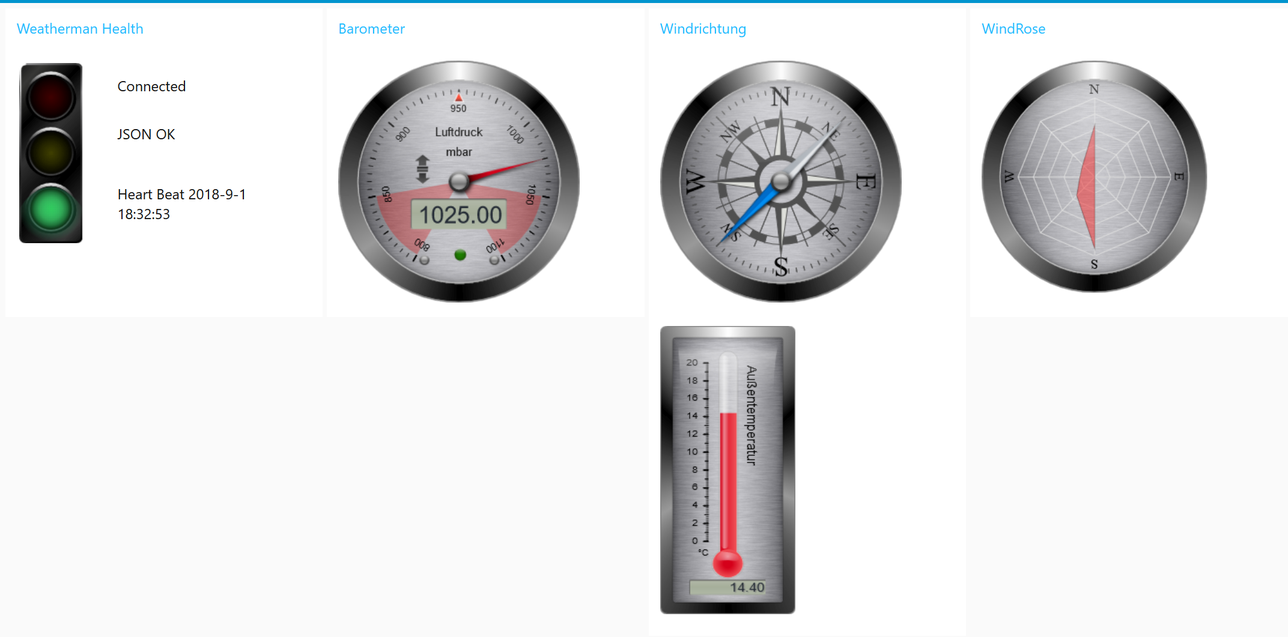
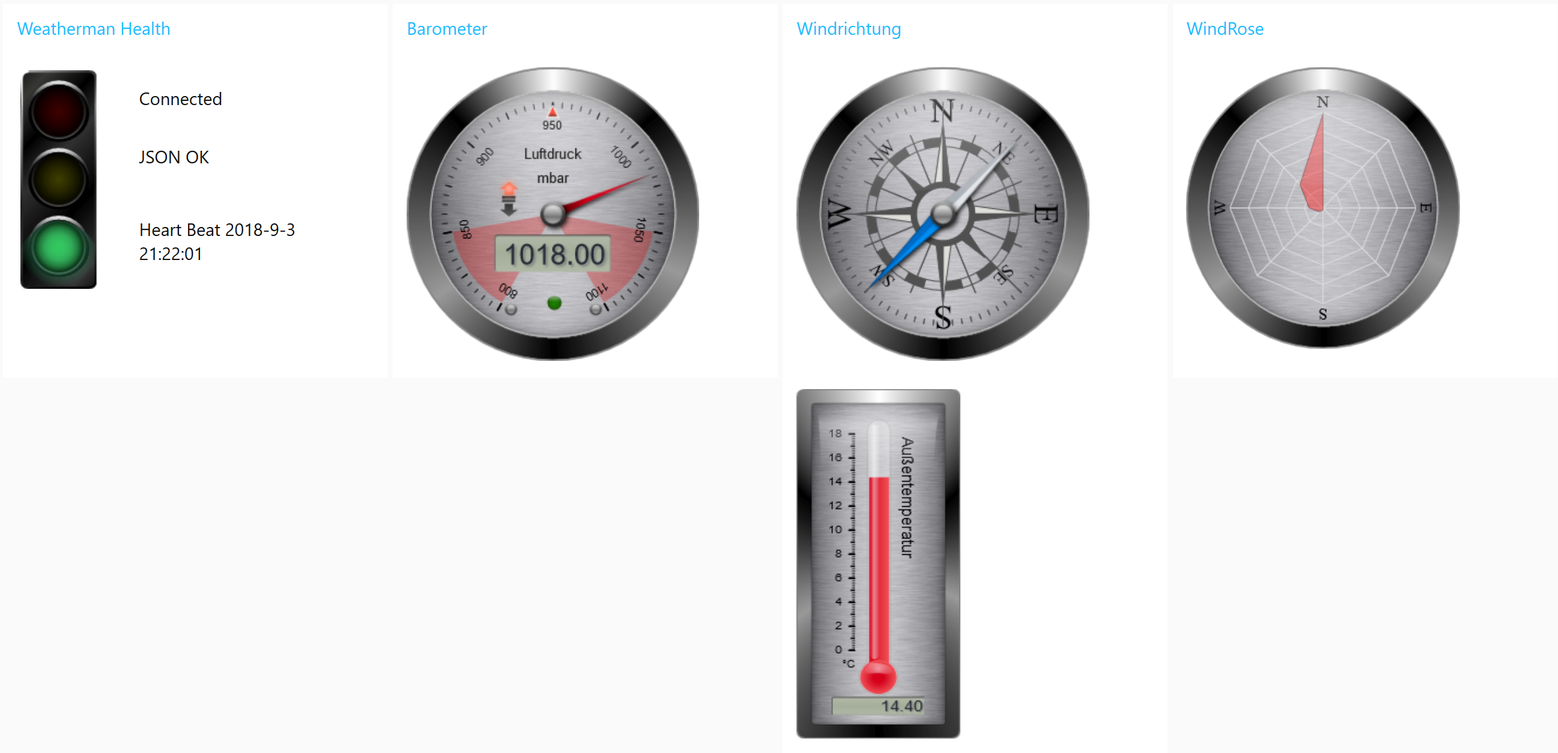
update

diff --git a/flow.md b/flow.md
@@ -10,7 +10,7 @@
         "id": "47595dc.ba94324",
         "type": "tcp in",
         "z": "b016607a.570c28",
-        "name": "",
+        "name": "Listen Weatherman",
         "server": "server",
         "host": "",
         "port": "8186",
@@ -19,7 +19,7 @@
         "newline": "",
         "topic": "",
         "base64": false,
-        "x": 100,
+        "x": 110,
         "y": 800,
         "wires": [
             [
@@ -208,7 +208,7 @@
             "6ff5d495.9ca94c",
             "b1c34c3a.cf0f18"
         ],
-        "x": 1230,
+        "x": 1256,
         "y": 1640,
         "wires": [
             [
@@ -1438,13 +1438,13 @@
         "id": "30adad7a.1c38aa",
         "type": "rbe",
         "z": "b016607a.570c28",
-        "name": "",
+        "name": "WatchDog",
         "func": "rbe",
         "gap": "",
         "start": "",
         "inout": "out",
         "property": "payload",
-        "x": 730,
+        "x": 754,
         "y": 1580,
         "wires": [
             [
@@ -1467,7 +1467,7 @@
         "reset": "1",
         "bytopic": "all",
         "name": "TimeOut",
-        "x": 880,
+        "x": 906,
         "y": 1540,
         "wires": [
             [
@@ -1588,11 +1588,11 @@
         "order": 0,
         "width": "5",
         "height": "5",
-        "format": "<script type=\"text/javascript\" src=\"/addons/red/static/scripts/steelseries-min.js\"></script>\n<script type=\"text/javascript\" src=\"/addons/red/static/scripts/tween-min.js\"></script>\n\n<script>\nvar TrafLight;\nTrafLight = new steelseries.TrafficLight('canvasTrafLight', {\n              width: 100,\n              height: 200\n            });\n\n(function(scope){\n  scope.$watch('msg', function(msg) {\n    if (msg.payload === 1) {\n      TrafLight.setGreenOn(true);\n    } else if (msg.payload === 0) {\n      TrafLight.setGreenOn(false);\n    } else if (msg.payload === 'con_ok') {\n      TrafLight.setRedOn(false);\n      scope.conStatus = 'Connected';\n    } else if (msg.payload === 'con_timeout') {\n      TrafLight.setRedOn(true);\n      scope.conStatus = 'Connection Timeout';\n    } else if (msg.error !== undefined) {\n      TrafLight.setYellowOn(true);\n      scope.jsonStatus = 'JSON Error'\n    } \n  });\n}(scope));\nscope.conStatus = 'Connected';\nscope.jsonStatus = 'JSON OK';\n\n</script>\n\n\n<table width=\"100%\" border=\"0\">\n  <tbody>\n    <tr>\n      <td width=\"105\" rowspan=\"3\"><canvas id=\"canvasTrafLight\" width=\"100\" height=\"200\"></canvas></td>\n      <td>{{conStatus}}</td>\n    </tr>\n    <tr>\n      <td>{{jsonStatus}}</td>\n    </tr>\n    <tr>\n      <td>Heart Beat {{msg.timestamp}}</td>\n    </tr>\n  </tbody>\n</table>",
+        "format": "<script>\nvar TrafLight;\nTrafLight = new steelseries.TrafficLight('canvasTrafLight', {\n  width: 100,\n  height: 200\n});\n\n(function(scope){\n  scope.$watch('msg', function(msg) {\n    if (msg.payload !== undefined) {\n      if (msg.payload === 1) {\n        TrafLight.setGreenOn(true);\n      } else if (msg.payload === 0) {\n        TrafLight.setGreenOn(false);\n      } else if (msg.payload === 'con_ok') {\n        TrafLight.setRedOn(false);\n        scope.conStatus = 'Connected';\n      } else if (msg.payload === 'con_timeout') {\n        TrafLight.setRedOn(true);\n        scope.conStatus = 'Connection Timeout';\n      } else if (msg.error !== undefined) {\n        TrafLight.setYellowOn(true);\n        scope.jsonStatus = 'JSON Error';\n      }\n    }\n  });\n}(scope));\nscope.conStatus = 'Connected';\nscope.jsonStatus = 'JSON OK';\n</script>\n\n\n<table width=\"100%\" border=\"0\">\n  <tbody>\n    <tr>\n      <td width=\"105\" rowspan=\"3\"><canvas id=\"canvasTrafLight\" width=\"100\" height=\"200\"></canvas></td>\n      <td>{{conStatus}}</td>\n    </tr>\n    <tr>\n      <td>{{jsonStatus}}</td>\n    </tr>\n    <tr>\n      <td>Heart Beat {{msg.timestamp}}</td>\n    </tr>\n  </tbody>\n</table>",
         "storeOutMessages": true,
         "fwdInMessages": true,
         "templateScope": "local",
-        "x": 1520,
+        "x": 1546,
         "y": 1600,
         "wires": [
             []
@@ -1612,7 +1612,7 @@
         "reset": "",
         "bytopic": "all",
         "name": "Heart Beat",
-        "x": 1250,
+        "x": 1276,
         "y": 1600,
         "wires": [
             [
@@ -1639,7 +1639,7 @@
         "from": "",
         "to": "",
         "reg": false,
-        "x": 1240,
+        "x": 1266,
         "y": 1520,
         "wires": [
             [
@@ -1665,7 +1665,7 @@
         "checkall": "true",
         "repair": false,
         "outputs": 2,
-        "x": 1050,
+        "x": 1076,
         "y": 1540,
         "wires": [
             [
@@ -1695,7 +1695,7 @@
         "from": "",
         "to": "",
         "reg": false,
-        "x": 1240,
+        "x": 1266,
         "y": 1560,
         "wires": [
             [
@@ -1750,7 +1750,7 @@
         "order": 0,
         "width": "3",
         "height": "6",
-        "format": "<script type=\"text/javascript\" src=\"/addons/red/static/scripts/steelseries-min.js\"></script>\n<script type=\"text/javascript\" src=\"/addons/red/static/scripts/tween-min.js\"></script>\n\n<script>\nvar linearThermo;\nlinearThermo = new steelseries.Linear('canvasLinearThermo', {\n                 width: 140,\n                 height: 320,\n                 gaugeType: steelseries.GaugeType.TYPE2,\n                 titleString: \"Außentemperatur\",\n                 unitString: \"°C\",\n                 ledVisible: false,\n                 lcdVisible: true,\n                 thresholdRising: false,\n                 thresholdVisible: false,\n                 niceScale: true,\n                 minValue: -25,\n                 maxValue: 40\n               });\n                    \nlinearThermo.setFrameDesign(steelseries.FrameDesign.BLACK_METAL);\nlinearThermo.setBackgroundColor(steelseries.BackgroundColor.BRUSHED_METAL);\nlinearThermo.setValueAnimated(0);\nlinearThermo.setMaxValue(40);\n\n(function(scope){ \n  scope.$watch('msg', function(msg) {\n    if (msg.payload !== undefined && msg.topic === '/weatherman/status/w_temperature') {\n      linearThermo.setValueAnimated(msg.payload);\n      if (msg.payload > 0) {\n        linearThermo.setMaxValue(msg.payload + 2);\n        linearThermo.setMinValue(0);\n      } else if (msg.payload < 0) {\n        linearThermo.setMaxValue(0);\n        linearThermo.setMinValue(msg.payload - 2);\n      }\n    }\n  });\n})(scope);\n</script>\n\n<canvas id=\"canvasLinearThermo\" width=\"140\" height=\"320\"></canvas>\n",
+        "format": "<script>\nvar linearThermo;\nlinearThermo = new steelseries.Linear('canvasLinearThermo', {\n                 width: 140,\n                 height: 320,\n                 gaugeType: steelseries.GaugeType.TYPE2,\n                 titleString: \"Außentemperatur\",\n                 unitString: \"°C\",\n                 ledVisible: false,\n                 lcdVisible: true,\n                 thresholdRising: false,\n                 thresholdVisible: false,\n                 niceScale: true,\n                 minValue: -25,\n                 maxValue: 40\n               });\n                    \nlinearThermo.setFrameDesign(steelseries.FrameDesign.BLACK_METAL);\nlinearThermo.setBackgroundColor(steelseries.BackgroundColor.BRUSHED_METAL);\nlinearThermo.setValueAnimated(0);\nlinearThermo.setMaxValue(40);\n\n(function(scope){ \n  scope.$watch('msg', function(msg) {\n    if (msg.payload !== undefined && msg.topic === '/weatherman/status/w_temperature') {\n      linearThermo.setValueAnimated(msg.payload);\n      if (msg.payload > 0) {\n        linearThermo.setMaxValue(msg.payload + 2);\n        linearThermo.setMinValue(0);\n      } else if (msg.payload < 0) {\n        linearThermo.setMaxValue(0);\n        linearThermo.setMinValue(msg.payload - 2);\n      }\n    }\n  });\n})(scope);\n</script>\n\n<canvas id=\"canvasLinearThermo\" width=\"140\" height=\"320\"></canvas>\n",
         "storeOutMessages": true,
         "fwdInMessages": true,
         "templateScope": "local",
@@ -1855,7 +1855,7 @@
         "z": "b016607a.570c28",
         "name": "Einfaches Monitoring und Fehlerbehandlung",
         "info": "",
-        "x": 1080,
+        "x": 1106,
         "y": 1460,
         "wires": []
     },
@@ -1900,7 +1900,7 @@
         "order": 0,
         "width": "5",
         "height": "5",
-        "format": "<script>\n\n/*\n * Version 6 of the Windrose/Radar gauge\n * Originally created by Mark Crossley\n * Source: https://www.weather-watch.com/smf/index.php/topic,55071.0.html\n *\n */\n\n\n// Create some global variables to hold references to the buffers\nvar g_bufferRadar, g_bufferRadarFrame, g_bufferRadarBackground,\n    g_bufferRadarForeground, g_ctxRadarGauge;\nvar g_radarPlotSize;\n\n// Global variables that already exist in gauges-ss, if merging into gauge-ss, you\n// DO NOT need to add these\nvar g_size = 281;\nvar data = {};\nvar g_frameDesign = steelseries.FrameDesign.BLACK_METAL;\nvar g_background = steelseries.BackgroundColor.BRUSHED_METAL;\nvar g_foreground = steelseries.ForegroundType.TYPE1;\nvar LANG = {};\nLANG.compass = ['N', 'NE', 'E', 'SE', 'S', 'SW', 'W', 'NW'];\n\n// Optional - background image - Already in gauges-ss\n//var g_imgPathURL = 'images/';\n//var g_imgSmall = document.createElement(\"img\");                     //  background image\n//g_imgSmall.setAttribute(\"src\", g_imgPathURL + \"logoLarge.png\");\n\nfunction init() {\n\n  // Calcuate the size of the gauge background and so the size of radar plot required\n  g_radarPlotSize = g_size * 0.68;\n\n  // Create a hidden div to host the Radar plot\n  var div = document.createElement('div');\n  div.style.display = 'none';\n  document.body.appendChild(div);\n\n  // radar plot canvas buffer\n  g_bufferRadar = document.createElement('canvas');\n  g_bufferRadar.width = g_radarPlotSize;\n  g_bufferRadar.height = g_radarPlotSize;\n  g_bufferRadar.id = 'radarPlot';\n  div.appendChild(g_bufferRadar);\n\n  // Create a steelseries gauge frame\n  g_bufferRadarFrame = document.createElement('canvas');\n  g_bufferRadarFrame.width = g_size;\n  g_bufferRadarFrame.height = g_size;\n  var ctxFrame = g_bufferRadarFrame.getContext('2d');\n  steelseries.drawFrame(ctxFrame, g_frameDesign, g_size/2, g_size/2, g_size, g_size);\n\n  // Create a steelseries gauge background\n  g_bufferRadarBackground = document.createElement('canvas');\n  g_bufferRadarBackground.width = g_size;\n  g_bufferRadarBackground.height = g_size;\n  var ctxBackground = g_bufferRadarBackground.getContext('2d');\n  steelseries.drawBackground(ctxBackground, g_background, g_size/2, g_size/2, g_size, g_size);\n  // Optional - add a background image\n  //var drawSize = g_size * 0.831775;\n  //var x = (g_size - drawSize) / 2;\n  //ctxBackground.drawImage(g_imgSmall, x, x, drawSize, drawSize);\n\n  // Add the compass points\n  drawCompassPoints(ctxBackground, g_size);\n\n  // Create a steelseries gauge forground\n  g_bufferRadarForeground = document.createElement('canvas');\n  g_bufferRadarForeground.width = g_size;\n  g_bufferRadarForeground.height = g_size;\n  var ctxForegound = g_bufferRadarForeground.getContext('2d');\n  steelseries.drawForeground(ctxForegound, g_foreground, g_size, g_size, false);\n\n  // Get the context of the gauge canavs on the HTML page\n  g_ctxRadarGauge = document.getElementById('canvasGauge').getContext('2d');\n}\n\n\n// Just draw an empty gauge as a placeholder when the page loads\nfunction drawWindRose() {\n  // Paint the gauge frame\n  g_ctxRadarGauge.drawImage(g_bufferRadarFrame, 0, 0);\n\n  // Paint the gauge background\n  g_ctxRadarGauge.drawImage(g_bufferRadarBackground, 0, 0);\n\n  // Paint the gauge foreground\n  g_ctxRadarGauge.drawImage(g_bufferRadarForeground, 0, 0);\n}\n\n// Redraw the gauge with data\nfunction doWindRose() {\n  console.log(data.WindRoseData);\n  // Clear the gauge\n  g_ctxRadarGauge.clearRect(0, 0, g_size, g_size);\n\n  // Clear the existing radar plot\n  g_bufferRadar.width = g_bufferRadar.height = g_radarPlotSize;\n\n  // Create a new radar plot\n  var radar = new RGraph.Radar('radarPlot', data.WindRoseData);\n  radar.Set('chart.strokestyle', 'black');\n  radar.Set('chart.colors.alpha', 0.4);\n  radar.Set('chart.colors', ['red']);\n\n  radar.Set('chart.title', 'Wind  Rose');\n  radar.Set('chart.title.size', Math.ceil(0.045 * g_radarPlotSize));\n  radar.Set('chart.title.bold', false);\n  radar.Set('chart.gutter.top', 0.2 * g_radarPlotSize);\n  radar.Set('chart.gutter.bottom', 0.2 * g_radarPlotSize);\n\n  radar.Set('chart.tooltips.effect', 'snap');\n  radar.Set('chart.labels.axes', '');\n  radar.Set('chart.background.circles', true);\n  radar.Set('chart.radius', g_radarPlotSize/2);\n  radar.Draw();\n\n  // Paint the gauge frame\n  g_ctxRadarGauge.drawImage(g_bufferRadarFrame, 0, 0);\n\n  // Paint the gauge background\n  g_ctxRadarGauge.drawImage(g_bufferRadarBackground, 0, 0);\n\n  // Paint the radar plot\n  var offset = (g_size - g_radarPlotSize) / 2;\n  g_ctxRadarGauge.drawImage(g_bufferRadar, offset, offset);\n\n  // Paint the gauge foreground\n  g_ctxRadarGauge.drawImage(g_bufferRadarForeground, 0, 0);\n\n}\n\n\n// Helper function to put the compass points on the background\nfunction drawCompassPoints(ctx, size) {\n  ctx.save();\n  // set the font\n  ctx.font = (0.06 * size) + 'px serif';\n  ctx.fillStyle = '#000000';\n  ctx.textAlign = 'center';\n  ctx.textBaseline = 'middle';\n\n  // Draw the compass points\n  for (var i=0; i<4; i++) {\n    ctx.translate(size/2, size*0.125);\n    ctx.fillText(LANG.compass[i*2], 0, 0, size);\n    ctx.translate(-size/2, -size*0.125);\n    // Move to center\n    ctx.translate(size/2, size/2);\n    ctx.rotate(Math.PI/2);\n    ctx.translate(-size/2, -size/2);\n  }\n  ctx.restore();\n}\n// Initial setup\ninit();\ndrawWindRose();\n\n(function(scope) {\n  scope.$watch('msg', function(msg) {\n    if (msg.payload !== undefined) {\n      drawWindRose();\n      data.WindRoseData = msg.payload;\n      doWindRose();\n    }\n  });\n}(scope));\n\n</script>\n\n<canvas id=\"canvasGauge\" width=\"301\" height=\"301\">No canvas in your browser...sorry...</canvas>\n\n\n\n\n\n",
+        "format": "<script>\n\n/*\n * Version 6 of the Windrose/Radar gauge\n * Originally created by Mark Crossley\n * Source: https://www.weather-watch.com/smf/index.php/topic,55071.0.html\n *\n */\n\n\n// Create some global variables to hold references to the buffers\nvar g_bufferRadar, g_bufferRadarFrame, g_bufferRadarBackground,\n    g_bufferRadarForeground, g_ctxRadarGauge;\nvar g_radarPlotSize;\n\n// Global variables that already exist in gauges-ss, if merging into gauge-ss, you\n// DO NOT need to add these\nvar g_size = 281;\nvar data = {};\nvar g_frameDesign = steelseries.FrameDesign.BLACK_METAL;\nvar g_background = steelseries.BackgroundColor.BRUSHED_METAL;\nvar g_foreground = steelseries.ForegroundType.TYPE1;\nvar LANG = {};\nLANG.compass = ['N', 'NE', 'E', 'SE', 'S', 'SW', 'W', 'NW'];\n\n// Optional - background image - Already in gauges-ss\n//var g_imgPathURL = 'images/';\n//var g_imgSmall = document.createElement(\"img\");                     //  background image\n//g_imgSmall.setAttribute(\"src\", g_imgPathURL + \"logoLarge.png\");\n\nfunction init() {\n\n  // Calcuate the size of the gauge background and so the size of radar plot required\n  g_radarPlotSize = g_size * 0.68;\n\n  // Create a hidden div to host the Radar plot\n  var div = document.createElement('div');\n  div.style.display = 'none';\n  document.body.appendChild(div);\n\n  // radar plot canvas buffer\n  g_bufferRadar = document.createElement('canvas');\n  g_bufferRadar.width = g_radarPlotSize;\n  g_bufferRadar.height = g_radarPlotSize;\n  g_bufferRadar.id = 'radarPlot';\n  div.appendChild(g_bufferRadar);\n\n  // Create a steelseries gauge frame\n  g_bufferRadarFrame = document.createElement('canvas');\n  g_bufferRadarFrame.width = g_size;\n  g_bufferRadarFrame.height = g_size;\n  var ctxFrame = g_bufferRadarFrame.getContext('2d');\n  steelseries.drawFrame(ctxFrame, g_frameDesign, g_size/2, g_size/2, g_size, g_size);\n\n  // Create a steelseries gauge background\n  g_bufferRadarBackground = document.createElement('canvas');\n  g_bufferRadarBackground.width = g_size;\n  g_bufferRadarBackground.height = g_size;\n  var ctxBackground = g_bufferRadarBackground.getContext('2d');\n  steelseries.drawBackground(ctxBackground, g_background, g_size/2, g_size/2, g_size, g_size);\n  // Optional - add a background image\n  //var drawSize = g_size * 0.831775;\n  //var x = (g_size - drawSize) / 2;\n  //ctxBackground.drawImage(g_imgSmall, x, x, drawSize, drawSize);\n\n  // Add the compass points\n  drawCompassPoints(ctxBackground, g_size);\n\n  // Create a steelseries gauge forground\n  g_bufferRadarForeground = document.createElement('canvas');\n  g_bufferRadarForeground.width = g_size;\n  g_bufferRadarForeground.height = g_size;\n  var ctxForegound = g_bufferRadarForeground.getContext('2d');\n  steelseries.drawForeground(ctxForegound, g_foreground, g_size, g_size, false);\n\n  // Get the context of the gauge canavs on the HTML page\n  g_ctxRadarGauge = document.getElementById('canvasGauge').getContext('2d');\n}\n\n\n// Just draw an empty gauge as a placeholder when the page loads\nfunction drawWindRose() {\n  // Paint the gauge frame\n  g_ctxRadarGauge.drawImage(g_bufferRadarFrame, 0, 0);\n\n  // Paint the gauge background\n  g_ctxRadarGauge.drawImage(g_bufferRadarBackground, 0, 0);\n\n  // Paint the gauge foreground\n  g_ctxRadarGauge.drawImage(g_bufferRadarForeground, 0, 0);\n}\n\n// Redraw the gauge with data\nfunction doWindRose() {\n  //console.log(data.WindRoseData);\n  // Clear the gauge\n  g_ctxRadarGauge.clearRect(0, 0, g_size, g_size);\n\n  // Clear the existing radar plot\n  g_bufferRadar.width = g_bufferRadar.height = g_radarPlotSize;\n\n  // Create a new radar plot\n  var radar = new RGraph.Radar('radarPlot', data.WindRoseData);\n  radar.Set('chart.strokestyle', 'black');\n  radar.Set('chart.colors.alpha', 0.4);\n  radar.Set('chart.colors', ['red']);\n\n  radar.Set('chart.title', 'Wind  Rose');\n  radar.Set('chart.title.size', Math.ceil(0.045 * g_radarPlotSize));\n  radar.Set('chart.title.bold', false);\n  radar.Set('chart.gutter.top', 0.2 * g_radarPlotSize);\n  radar.Set('chart.gutter.bottom', 0.2 * g_radarPlotSize);\n\n  radar.Set('chart.tooltips.effect', 'snap');\n  radar.Set('chart.labels.axes', '');\n  radar.Set('chart.background.circles', true);\n  radar.Set('chart.radius', g_radarPlotSize/2);\n  radar.Draw();\n\n  // Paint the gauge frame\n  g_ctxRadarGauge.drawImage(g_bufferRadarFrame, 0, 0);\n\n  // Paint the gauge background\n  g_ctxRadarGauge.drawImage(g_bufferRadarBackground, 0, 0);\n\n  // Paint the radar plot\n  var offset = (g_size - g_radarPlotSize) / 2;\n  g_ctxRadarGauge.drawImage(g_bufferRadar, offset, offset);\n\n  // Paint the gauge foreground\n  g_ctxRadarGauge.drawImage(g_bufferRadarForeground, 0, 0);\n\n}\n\n\n// Helper function to put the compass points on the background\nfunction drawCompassPoints(ctx, size) {\n  ctx.save();\n  // set the font\n  ctx.font = (0.06 * size) + 'px serif';\n  ctx.fillStyle = '#000000';\n  ctx.textAlign = 'center';\n  ctx.textBaseline = 'middle';\n\n  // Draw the compass points\n  for (var i=0; i<4; i++) {\n    ctx.translate(size/2, size*0.125);\n    ctx.fillText(LANG.compass[i*2], 0, 0, size);\n    ctx.translate(-size/2, -size*0.125);\n    // Move to center\n    ctx.translate(size/2, size/2);\n    ctx.rotate(Math.PI/2);\n    ctx.translate(-size/2, -size/2);\n  }\n  ctx.restore();\n}\n\n(function(scope) {\n  init();\n  drawWindRose();\n  scope.$watch('msg', function(msg) {\n    if (msg.payload !== undefined) {\n    //  drawWindRose();\n      data.WindRoseData = msg.payload;\n      doWindRose();\n    }\n  });\n}(scope));\n\n</script>\n\n<canvas id=\"canvasGauge\" width=\"301\" height=\"301\">No canvas in your browser...sorry...</canvas>\n\n\n\n\n\n",
         "storeOutMessages": true,
         "fwdInMessages": true,
         "templateScope": "local",

diff --git a/README_DE.md b/README_DE.md
@@ -13,11 +13,16 @@ Dieser Flow erlaubt es die JSON Daten des [Weatherman's](https://www.stall.biz/p
    - [Demo Radar](http://www.wilmslowastro.com/steelseries/radar/radar.html)
    - [Demo Bulb](http://www.wilmslowastro.com/steelseries/demoLightBulb.html)
 
+Die hier dargestellte Visualisierung soll nur als Anregung dienen und die obigen Beispiele zeigen, welche Möglichkeiten die Steelseries Gauges noch bieten.
+
+Sollte hier jemand schicke Ergänzungen vornehmen, würde ich mich über ein Pull-Request oder ein Teilen des Flows freuen.
+
 ## Flow
 
 <img src="https://raw.githubusercontent.com/Sineos/node-red-contrib-weatherman/master/src_readme/flow.png" width="400"/>
 
 ### Import Flow
+
 Den Inhalt von [raw flow.md](https://raw.githubusercontent.com/Sineos/node-red-contrib-weatherman/master/flow.md) kopieren und in Node-Red importieren.
 
 ## Dashboard
@@ -25,8 +30,10 @@ Den Inhalt von [raw flow.md](https://raw.githubusercontent.com/Sineos/node-red-c
 <img src="https://raw.githubusercontent.com/Sineos/node-red-contrib-weatherman/master/src_readme/dash.png" width="400"/>
 
 ## Vorbereitungen
+
 ### Weatherman
-Der Weatherman sendet seine Daten standardmäßig zum lighthttp proxy der CCU auf Port 8181. Da hier die Integration über RedMatic erfolgen soll, muss der Port in Waetherman geändert werden, da der Port nicht doppelt von der CCU und RedMatic verwendet werden kann.
+
+Der Weatherman sendet seine Daten standardmäßig zum lighthttp proxy der CCU auf Port 8181. Da hier die Integration über RedMatic erfolgen soll, muss der Port in Weatherman geändert werden, da der Port nicht doppelt von der CCU und RedMatic verwendet werden kann.
 
 Die Änderung des Ports erfolgt über: `http://<ip weatherman>/param:12:<port>`
 
@@ -47,7 +54,7 @@ Um die entsprechenden Einstellungen vornehmen zu können muss der SSH Zugang akt
 Mit dem SSH Zugang wird ein neues Verzeichnis für die entsprechenden Skripte angelegt. Der Flow hier verwendet:
 
     /usr/local/sdcard/www/addons/red/static/scripts
-In dieses Verzeichnis müssen folgende Dateien hochgeladen werden:
+Dieses Verzeichnis muss angelegt werden und folgende Dateien müssen hochgeladen werden:
 
 - [steelseries-min.js](https://github.com/HanSolo/SteelSeries-Canvas/blob/master/steelseries-min.js)
 - [tween-min.js](https://github.com/HanSolo/SteelSeries-Canvas/blob/master/tween-min.js)
@@ -82,6 +89,20 @@ Im Anschluss zu diesen Einstellungen muss RedMatic neu gestartet werden.
 ## Konfiguration der einzelnen Nodes
 
 In der weiteren Erklärung wird auf einzelne Nodes näher eingegangen.
+
+### TCP in Node: Listen Weatherman
+
+https://raw.githubusercontent.com/Sineos/node-red-contrib-weatherman/master/src_readme/tcp_in.png" width="400"/>
+
+#### Beschreibung
+
+Verbindungspunkt zum Weatherman.
+
+#### Funktion
+
+ - Öffnet einen Server Port (hier 8186) zu dem sich der Weatherman periodisch verbindet
+ - Das eingehende JSON Paket wird erstmal als einfache Zeichenkette weitergegeben 
+
 ### Function Node: Parse JSON
 
 https://raw.githubusercontent.com/Sineos/node-red-contrib-weatherman/master/src_readme/function_parse1.png" width="400"/>
@@ -98,10 +119,10 @@ Die 3 Möglichkeiten sind:
 
 #### Funktion
 
- - Mit der Variable `BasePath` wird der erste Teil der späteren `msg.topic` gesezt. Dieser BasePath wird jeweils um den Namen des entsprechenden Datenpunkts vom Weatherman ergänzt
+ - Mit der Variable `BasePath` wird der erste Teil der späteren `msg.topic` gesetzt. Dieser BasePath wird jeweils um den Namen des entsprechenden Datenpunkts vom Weatherman ergänzt
  - Über `msg.timestamp` wird den Daten jeweils noch die aktuelle Zeit mitgegeben  
  - Mit `node.error` wird ein Fehler-Event erzeugt, falls es beim Parsen der Daten Probleme gibt, z.B. kein EOT gefunden oder bei einem fehlerhaften JSON Datensatz 
- - Bei Möglichkeit #2 und #3 wird der jeweilgen Nachricht noch über `msg.unit` die entsprechende Messgröße mitgegeben
+ - Bei Möglichkeit #2 und #3 wird der jeweiligen Nachricht noch über `msg.unit` die entsprechende Messgröße mitgegeben
 
 ### Change Node: weatherman_ip
 
@@ -113,11 +134,72 @@ Die gesamte Reihe an Change Nodes zerlegt das geparste JSON Paket in seine Besta
 
 Mit `payload.vars.0` wird der erste Werteblock im JSON angesprochen, mit `payload.vars.1` der zweite usw.
 
-Sollte sich mit späteren Weatherman Firmware Versionen die Reihenfloge der Daten ändern, ist hier entsprechend anzupassen, da sonst die Temperatur ggf. beim Wind landet etc.
+Sollte sich mit späteren Weatherman Firmware Versionen die Reihenfolge der Daten ändern, ist hier entsprechend anzupassen, da sonst die Temperatur ggf. beim Wind landet etc.
 
 #### Funktion
 
- - Mit dem JSONata Ausdruck `$$.topic & $$.payload.vars[0].homematic_name` wird das vorhandene `msg.topic` (siehe BasePath aus Parse JSON) genommen und um den Wert des `homematic_name` Schlüssels ergänzt.
+ - Mit dem JSONata Ausdruck `$$.topic & $$.payload.vars[0].homematic_name` wird das vorhandene `msg.topic` (siehe `BasePath` aus Parse JSON) genommen und um den Wert des `homematic_name` Schlüssels ergänzt.
  - Der Wert aus `payload.vars.0.unit` wird `msg.unit` zugewiesen
  - Der Wert aus `payload.vars.0.value` wird `msg.payload` zugewiesen
 
+### Template Node: Load required scripts
+
+https://raw.githubusercontent.com/Sineos/node-red-contrib-weatherman/master/src_readme/template_scripts.png " width="400"/>
+
+#### Beschreibung
+
+Stellt die, zur Visualisierung benötigten, Skript Bibliotheken global zur Verfügung.
+
+#### Funktion
+
+ - Lädt die Skripte welche unter [httpStatic Verzeichnis und Skript Dateien](#httpStatic-Verzeichnis-und-Skript-Dateien) auf die CCU kopiert wurden
+
+### Template Node: Windrichtung
+
+https://raw.githubusercontent.com/Sineos/node-red-contrib-weatherman/master/src_readme/template_winddir.png " width="400"/>
+
+#### Beschreibung
+
+An Hand dieses Beispiels wird kurz auf die Visualisierung eingegangen.
+
+#### Funktion
+
+    (function(scope){ 
+      scope.$watch('msg', function(msg) {
+        if (msg.payload !== undefined && msg.topic === '/weatherman/status/w_wind_dir') {
+          radialWind.setValueAnimated(msg.payload);
+        }
+      });
+    })(scope);
+
+ - Kern der Visualisierung ist jeweils diese function(scope): Diese wird benötigt um Nachrichten innerhalb eines Templates auch in einem Skript nutzen zu können, denn ansonsten stehen diese Informationen nur den (Angular) html Elementen zur Verfügung
+ - Im Rest der Visualisierungs-Templates wird dann jeweils über die SteelSeries Funktionalitäten eine Anzeige generiert und diese dann mit den entsprechenden Daten gefüttert
+
+### Function Node: WindData
+
+https://raw.githubusercontent.com/Sineos/node-red-contrib-weatherman/master/src_readme/function_winddata.png " width="400"/>
+
+#### Beschreibung
+
+Diese Funktion summiert, über angegebene Zeitintervalle, die aufgetretenen Windgeschwindigkeiten in den jeweiligen Windrichtungen, um damit im Folgenden ein Diagramm zu erzeugen aus dem sich die hauptsächliche Windrichtung(en) in diesem Intervall ablesen lassen.
+
+#### Funktion
+
+ - Mit den Konstanten `limitLongTerm`, `limitMediumTerm` und `limitShortTerm` können die Zeitintervalle (in Stunden) bestimmt werden in der der Wind beobachtet werden soll
+ - Für diese Zeitintervalle sammelt das Skript die aufgetretenen Windgeschwindigkeiten in den 8 Himmelsrichtungen (N, NE, E, SE, S, SW, W, NW) und summiert diese
+ - Die Ergebnisse werden in einem Array als `msg.payload` zur Verfügung gestellt, wobei die Node für jedes Zeitintervall einen eigenen Output nutzt
+
+### Nodes: Einfaches Monitoring und Fehlerbehandlung
+
+https://raw.githubusercontent.com/Sineos/node-red-contrib-weatherman/master/src_readme/error_handling.png " width="400"/>
+
+#### Beschreibung
+
+Dieser Block von Nodes überwacht den Weatherman und stellt im den Fehlerfall über eine Ampelvisualisierung dar.
+
+#### Funktion
+
+ - Die RBE Node hängt an dem `sec_seit_reset` Wert des Weatherman und lässt nur Werte durch, welche sich im Vergleich zum letzten gändert hat
+ - Der Trigger `TimeOut` wird mit jedem Wert zurückgesetzt. Sollte für länger als 2 Minuten kein Wert ankommen läuft der Timer ab und der Trigger sendet ein `false`. Dieses wird dann als Verbindungsabbruch gewertet und schaltet die Ampel auf rot
+ - Der Trigger `Heart Beat` lässt mit jeder Aktualisierung der Daten die grüne Ampel kurz blinken 
+ - `Parse JSON Error` reagiert auf `node.error`, welcher ggf. von den JSON Parse Funktionen erzeugt wird und schaltet in diesem Fall die Ampel auf gelb
